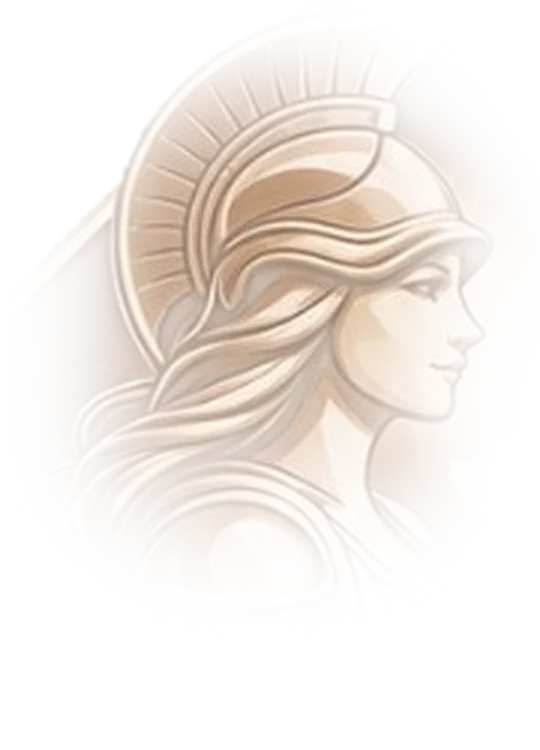
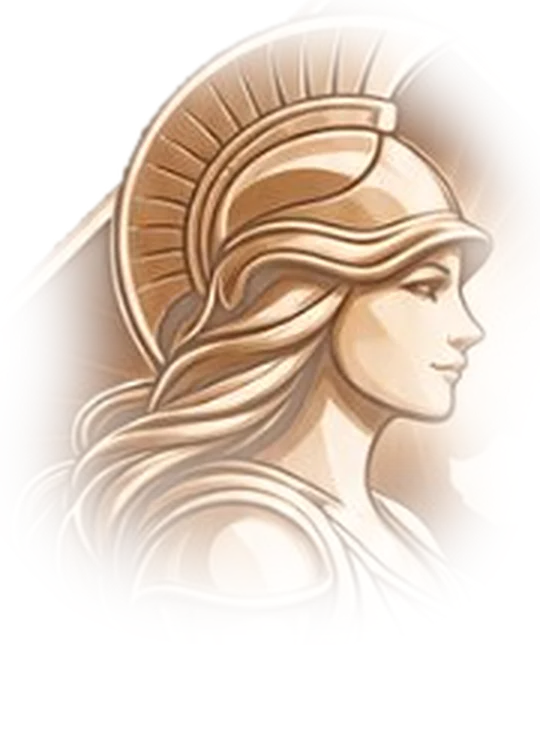
Fixed left menu, unfaded Eleftheria, clearer Athena, fewer extras
- Desktop: the side menu stays fixed on the left while scrolling (a
  soft paper card appears behind it once the page moves); the floating
  button on the right is now phones and tablets only.
- Eleftheria's photo gets plain backdrop headroom above her hair, so
  the soft top fade no longer touches her head.
- Athena on the Join page is stronger and clearer, still soft-edged.
- Removed the 01/02 markers in the community section and the emblem
  above the footer (the footer logo stays).

Claude-Session: https://claude.ai/code/session_01HDxfHHSh4odMwGqc9SyBKH

diff --git a/src/assets/css/style.css b/src/assets/css/style.css
@@ -161,10 +161,20 @@ p { margin: 0 0 1.15em; }
 .btn-row { display: flex; flex-wrap: wrap; gap: 1rem; justify-content: center; margin-top: 2.4rem; }
 
 /* ---------- navigation (idoportal-style vertical list, top left) ---------- */
+/* the menu stays on the left the whole way down; once the page moves, a soft paper card sits
+   behind it so it stays readable over photos and the red bands */
 .sidenav {
-  position: absolute; top: 0; left: 0; z-index: 30;
+  position: fixed; top: 0; left: 0; z-index: 50;
   padding: 34px var(--gutter);
   display: flex; flex-direction: column; align-items: flex-start;
+  border-radius: 0 0 22px 0;
+  transition: background 0.45s var(--ease), box-shadow 0.45s var(--ease), padding 0.45s var(--ease);
+}
+body.is-moved .sidenav {
+  padding: 18px 26px 20px var(--gutter);
+  background: rgba(242, 230, 220, 0.92);
+  box-shadow: 0 10px 30px -12px rgba(50, 11, 15, 0.28);
+  -webkit-backdrop-filter: blur(8px); backdrop-filter: blur(8px);
 }
 /* the hero head is light now: burgundy links, the logo lives in the hero head on every page */
 .sidenav__list { list-style: none; margin: 0; padding: 0; }
@@ -187,7 +197,8 @@ p { margin: 0 0 1.15em; }
 .sidenav__social a:hover { color: var(--gold); }
 .sidenav__social svg { width: 18px; height: 18px; }
 
-/* floating menu button + full screen menu */
+/* floating menu button + full screen menu: phones and tablets only (desktop keeps the side menu) */
+@media (min-width: 901px) { body .menu-btn, body .overlay { display: none; } }
 /* top right, three thin burgundy lines (client mockup); a cream disc appears behind it once the page moves */
 .menu-btn {
   position: fixed; top: 18px; right: 18px; z-index: 60;
@@ -485,7 +496,6 @@ main:has(> .cta:last-child) + .footer .sweep__haze { fill: url(#g-sweep-rose-dim
 /* she melts into the paper on every side: a soft oval feather intersected with edge fades,
    so the mask is fully transparent at all four box edges (no framed rectangle at any width) */
 .founder__portrait {
-  --pm-drop: 6%;
   --pm-oval: radial-gradient(ellipse 62% 72% at 50% 44%, #000 56%, transparent 100%);
   --pm-y: linear-gradient(180deg, transparent 6.5%, #000 14%, #000 66%, transparent 96%);
   --pm-x: linear-gradient(90deg, transparent 0%, #000 22%, #000 78%, transparent 100%);
@@ -499,7 +509,6 @@ main:has(> .cta:last-child) + .footer .sweep__haze { fill: url(#g-sweep-rose-dim
 }
 .founder__portrait img {
   width: 100%; height: 100%; object-fit: cover; object-position: 50% 0%;
-  transform: translateY(var(--pm-drop, 12%));
 }
 .founder__words { padding-top: 2vh; }
 .founder__emblem { width: 72px; margin-bottom: 1.4rem; }
@@ -583,11 +592,6 @@ main:has(> .cta:last-child) + .footer .sweep__haze { fill: url(#g-sweep-rose-dim
 .flow .deco__c { fill: rgba(103, 41, 44, 0.3); }
 .flow__svg { display: block; width: 100%; height: 100%; overflow: visible; }
 .split__media img { position: absolute; inset: 0; width: 100%; height: 100%; object-fit: cover; will-change: transform; }
-.card-num {
-  font-family: var(--display); font-size: 13px; letter-spacing: 0.3em; color: var(--gold-text);
-  display: flex; align-items: center; gap: 0.9rem; margin-bottom: 1rem;
-}
-.card-num::after { content: ""; height: 1px; width: 60px; background: var(--gold); }
 .mantra {
   list-style: none; margin: 2rem 0 0; padding: 0; display: flex; flex-wrap: wrap; gap: 0.6rem 1.6rem;
   font-family: var(--serif); font-style: italic; font-size: 22px; color: var(--burgundy);
@@ -598,7 +602,6 @@ main:has(> .cta:last-child) + .footer .sweep__haze { fill: url(#g-sweep-rose-dim
 .cta { --bg: var(--brick); text-align: center; color: var(--cream); }
 .cta .quote { color: var(--cream); }
 .cta .quote em { color: var(--gold-3); }
-.cta__emblem { width: 110px; margin: 0 auto 1.8rem; }
 
 /* ---------- mascot pages (join / apply) ---------- */
 .mascot-grid {
@@ -740,7 +743,6 @@ main:has(> .cta:last-child) + .footer .sweep__haze { fill: url(#g-sweep-rose-dim
   .founder__grid, .split, .mascot-grid { grid-template-columns: 1fr; }
   .founder__portrait { position: relative; height: auto; margin: calc(clamp(60px, 9vw, 120px) * -1) calc(var(--gutter) * -1) 0; }
   .founder__portrait {
-    --pm-drop: 5%;
     --pm-oval: radial-gradient(ellipse 80% 74% at 50% 44%, #000 64%, transparent 100%);
     --pm-y: linear-gradient(180deg, transparent 5.5%, #000 12%, #000 70%, transparent 98%);
     --pm-x: linear-gradient(90deg, transparent 0%, #000 6%, #000 94%, transparent 100%);

diff --git a/src/partials/community.html b/src/partials/community.html
@@ -8,7 +8,6 @@
         <img src="assets/img/what-is-golden.jpg" alt="Two athletes rolling while the group watches" width="2000" height="1333" style="object-position: 50% 40%" loading="lazy" data-parallax="0.1">
       </figure>
       <div>
-        <p class="card-num" data-reveal>01</p>
         <h3 class="headline" data-reveal>What is Golden?</h3>
         <div class="text">
           <p class="lead" data-reveal>Golden is an environment built and focused around the development of female competitors.</p>
@@ -45,7 +44,6 @@
         <img src="assets/img/community.jpg" alt="The Golden group holding a Support Women&rsquo;s Grappling banner" width="1149" height="763" style="object-position: 50% 30%" loading="lazy" data-parallax="0.1">
       </figure>
       <div>
-        <p class="card-num" data-reveal>02</p>
         <h3 class="headline" data-reveal>Who is Golden for?</h3>
         <div class="text">
           <p class="lead" data-reveal>Golden is for women who are competitors and also serious about their development.</p>

diff --git a/src/partials/eleftheria.html b/src/partials/eleftheria.html
@@ -3,7 +3,7 @@
   <div class="deco" aria-hidden="true"><div class="deco__shape deco__shape--edge deco--right deco--xl deco--soft" style="--y:38%"><!-- include: deco-edge --></div></div>
   <div class="wrap founder__grid">
     <figure class="founder__portrait" data-reveal="left">
-      <img src="assets/img/eleftheria.jpg" alt="Eleftheria Christodoulou in her black belt" width="836" height="1566" loading="lazy">
+      <img src="assets/img/eleftheria.jpg" alt="Eleftheria Christodoulou in her black belt" width="836" height="1816" loading="lazy">
     </figure>
     <div class="founder__words">
       <img class="founder__emblem" src="assets/img/emblem.png" alt="" width="665" height="634" loading="lazy" data-reveal>

diff --git a/src/partials/cta.html b/src/partials/cta.html
@@ -2,7 +2,6 @@
   <div class="wave wave--sweep"><!-- include: sweep --></div>
   <div class="deco deco--dark" aria-hidden="true"><div class="deco__shape deco__shape--corner deco--tl"><!-- include: deco-corner --></div></div>
   <div class="wrap wrap--narrow">
-    <img class="cta__emblem" src="assets/img/emblem.png" alt="" width="665" height="634" loading="lazy" data-reveal="zoom">
     <h2 class="quote" id="cta-title" data-reveal>Apply. Be selected. <br><em>Become part of Golden.</em></h2>
     <div class="btn-row" data-reveal>
       <a class="btn btn--light" href="join.html">How do I join?</a>

diff --git a/src/pages/apply.html b/src/pages/apply.html
@@ -99,7 +99,6 @@
       <div class="wave wave--sweep"><!-- include: sweep --></div>
       <div class="deco deco--dark" aria-hidden="true"><div class="deco__shape deco__shape--corner deco--tl"><!-- include: deco-corner --></div></div>
       <div class="wrap wrap--narrow">
-        <img class="cta__emblem" src="assets/img/emblem.png" alt="" width="665" height="634" loading="lazy" data-reveal="zoom">
         <p class="quote" data-reveal>Competitors raising the level together. <br><em>This is Golden.</em></p>
       </div>
     </section>

diff --git a/tools/process_images.py b/tools/process_images.py
@@ -75,6 +75,22 @@ def sepia(im: Image.Image) -> Image.Image:
     return ImageOps.colorize(g, black=DARK, mid=MID, white=LIGHT)
 
 
+def add_headroom(im: Image.Image, frac: float = 0.16) -> Image.Image:
+    """Her hair touches the top of the poster crop; extend the plain backdrop upward so the
+    page's soft top fade lands on empty background instead of her head."""
+    w, h = im.size
+    pad = int(h * frac)
+    strip = im.crop((0, 0, w, 12)).resize((w, 1), Image.BOX)  # backdrop colour per column
+    top = strip.resize((w, pad), Image.BICUBIC).filter(ImageFilter.GaussianBlur(24))
+    out = Image.new("RGB", (w, h + pad))
+    out.paste(top, (0, 0))
+    out.paste(im, (0, pad))
+    # soften the join so no seam shows
+    band = out.crop((0, pad - 30, w, pad + 30)).filter(ImageFilter.GaussianBlur(10))
+    out.paste(band, (0, pad - 30))
+    return out
+
+
 def process_photos():
     for name, (src, crop, max_w) in PHOTOS.items():
         im = Image.open(RAW / src).convert("RGB")
@@ -85,6 +101,8 @@ def process_photos():
         if crop:
             w, h = im.size
             im = im.crop((int(crop[0] * w), int(crop[1] * h), int(crop[2] * w), int(crop[3] * h)))
+        if name == "eleftheria":
+            im = add_headroom(im)
         if im.width > max_w:
             im = im.resize((max_w, round(im.height * max_w / im.width)), Image.LANCZOS)
         sepia(im).save(OUT / f"{name}.jpg", quality=80, optimize=True, progressive=True)
